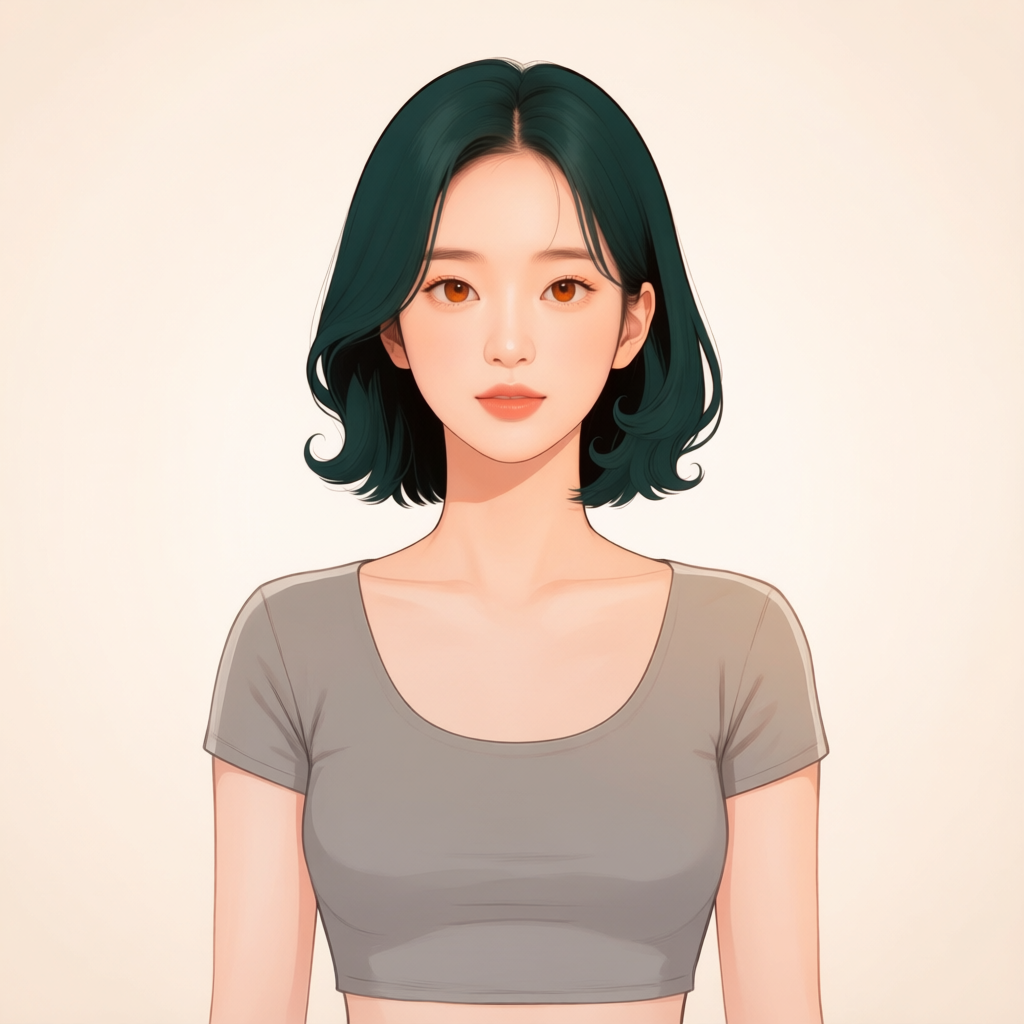
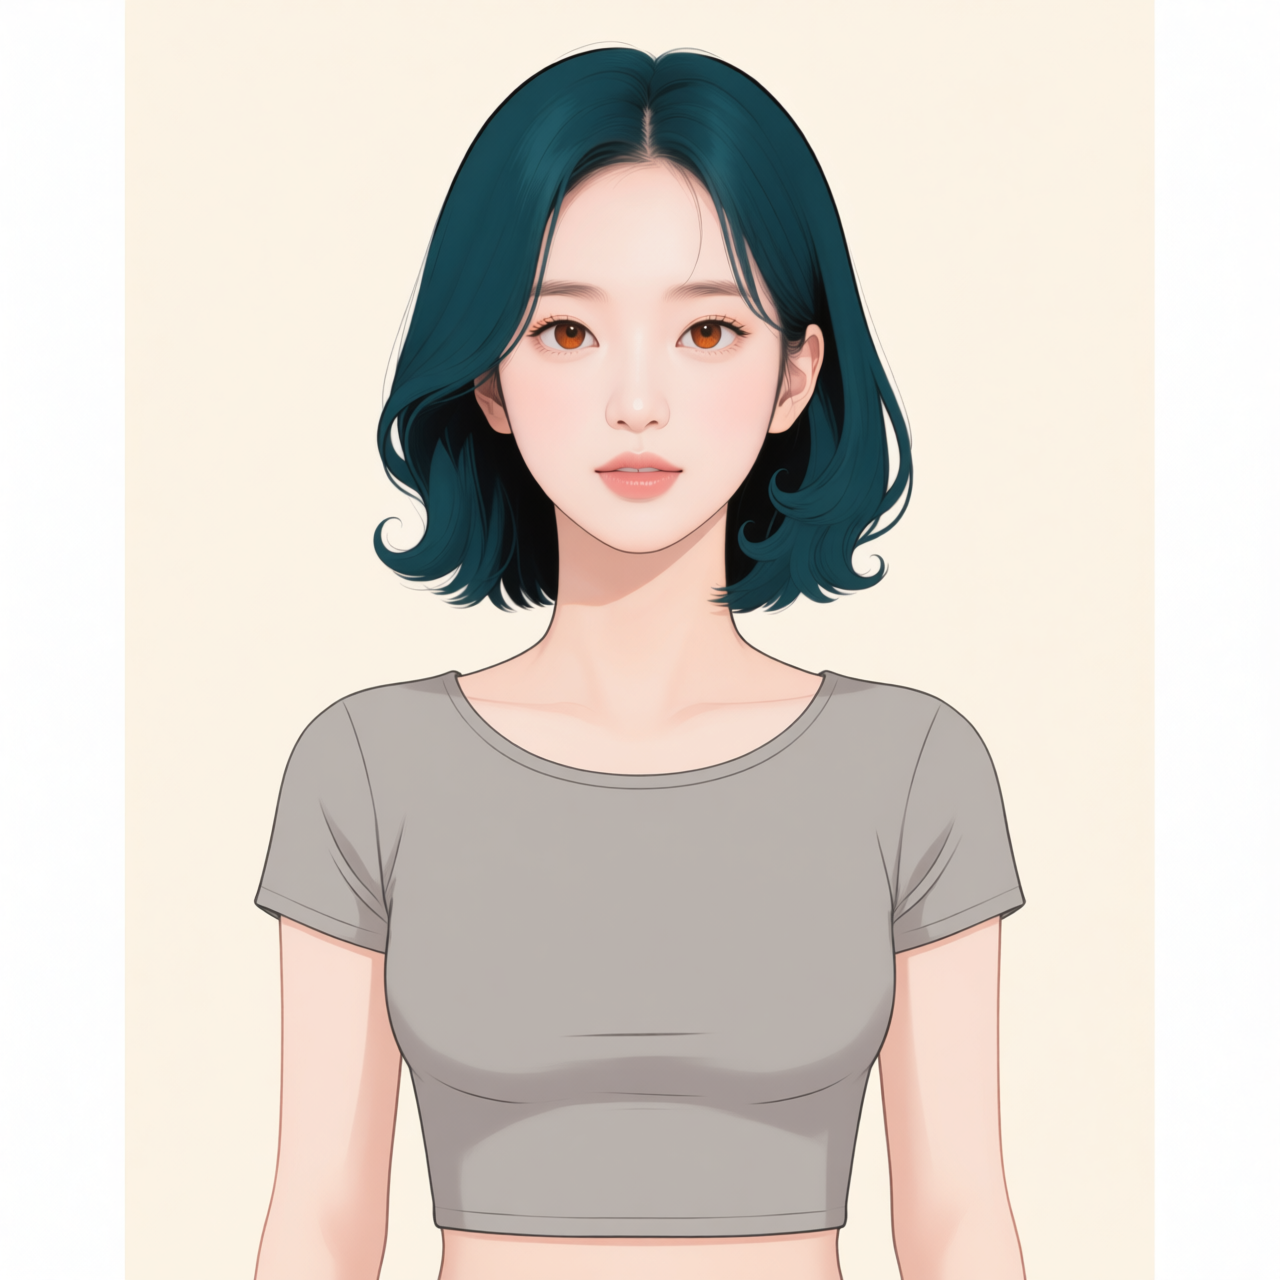
fix(p7-5.2): regenerate direct torso at native 1280 resolution

diff --git a/docs/assets/part-07/chapter-05/p7_5_3_qwen_edit_outfit_stages.py b/docs/assets/part-07/chapter-05/p7_5_3_qwen_edit_outfit_stages.py
@@ -27,7 +27,6 @@ OUTPUT_DIR = ASSETS
 DEFAULT_STEPS = 10
 QWEN_FACE_REFERENCE = "p7-5-2-mira-head-qwen-image-bf16-front-v1-code-63ece7-seed-62294-steps-30-size-1280.png"
 SHOE_REFERENCE = "p7-5-3-qwen-image-2512-white-sneakers-v1-size-1280x1280-seed-62294-steps-10.png"
-FRONT_TORSO_REFERENCE = "p7-5-2-qwen-2511-mira-torso-front-identity-framing-neutral-gray-v3-size-1280x1280-seed-62294-steps-10.png"
 # 960×1440 BODY_18 map: 90% overall figure height with 7 px-radius joints.
 STAGE2_BODY_ONLY_OPENPOSE = "p7-5-3-openpose-fullbody-stage2-open-arms-short-long-legs-v7-yaw+00_pitch+00.png"
 

diff --git a/docs/assets/part-07/chapter-05/p7_5_2_qwen_edit_2511_generate_mira_torso.py b/docs/assets/part-07/chapter-05/p7_5_2_qwen_edit_2511_generate_mira_torso.py
@@ -133,9 +133,13 @@ def main() -> None:
     image = pipe(
         image=face_image,
         prompt=prompt,
+        width=args.size,
+        height=args.size,
         generator=torch.Generator(device="cuda").manual_seed(args.seed),
         num_inference_steps=args.steps,
     ).images[0]
+    if image.size != (args.size, args.size):
+        raise RuntimeError(f"Unexpected output size: {image.size}; expected {args.size}x{args.size}")
     output_dir.mkdir(parents=True, exist_ok=True)
     image.save(output)
     record = {

diff --git a/docs/assets/part-07/chapter-05/p7_5_2_qwen_camera_angle_2509_probe.py b/docs/assets/part-07/chapter-05/p7_5_2_qwen_camera_angle_2509_probe.py
@@ -45,7 +45,7 @@ TRANSFORMER_FILENAME = (
 )
 ANGLE_LORA_REPO = "dx8152/Qwen-Edit-2509-Multiple-angles"
 ANGLE_LORA_FILE = "镜头转换.safetensors"
-DEFAULT_REFERENCE_IMAGE = ASSETS / "p7-5-2-qwen-2511-mira-torso-front-identity-framing-neutral-gray-v3-size-1280x1280-seed-62294-steps-10.png"
+DEFAULT_REFERENCE_IMAGE = ASSETS / "p7-5-2-qwen-2511-mira-torso-front-p7-5-4-direct-v1-size-1280x1280-seed-62294-steps-30.png"
 SIZE = (1024, 1024)
 LIGHTNING_SCHEDULER_CONFIG = {
     "base_image_seq_len": 256,

diff --git a/management/release-notes/sections/part-07/P7-5.2.md b/management/release-notes/sections/part-07/P7-5.2.md
@@ -3,6 +3,13 @@
 - Section ID: `P7-5.2`
 - Source File: `docs/parts/part-07/chapter-05/section-02.md`
 
+### v2026.09.10
+
+- Direct V1 상반신 생성기의 출력 `width`·`height` 누락을 수정하고 저장 전 크기 검사를 추가했다. 같은 프롬프트·시드 62294·30 step으로 실제 1280×1280 결과를 생성해 원고의 PNG와 result JSON을 대체했다.
+- 정면 상반신 생성기 링크와 실행 조건을 추가하고, 기존 640×640 카메라 참조 15장은 교체 전 상반신으로 생성한 결과임을 구분했다.
+- 원고 미사용 neutral-gray-v3 상반신 자산을 폐기하고, 미사용 상수를 제거하고 이전 카메라 실험 코드의 기본 참조를 Direct V1으로 변경했다.
+- 번역 반영 상태: 한국어 원문만 반영됨. 원문 기준 버전: `v2026.09.10`.
+
 ### v2026.09.05
 
 - 정면 머리 identity 기준과 상반신 카메라 참조라는 학습 흐름을 남기고, 이 절에 직접 쓰이지 않는 착장 계약 세부, 15개 개별 실행 기록 링크·이전 경로 비교·세부 오프로딩 설명을 본문에서 제거했다. 실행 조건은 생성기와 필요한 이미지의 result JSON으로 확인한다.
